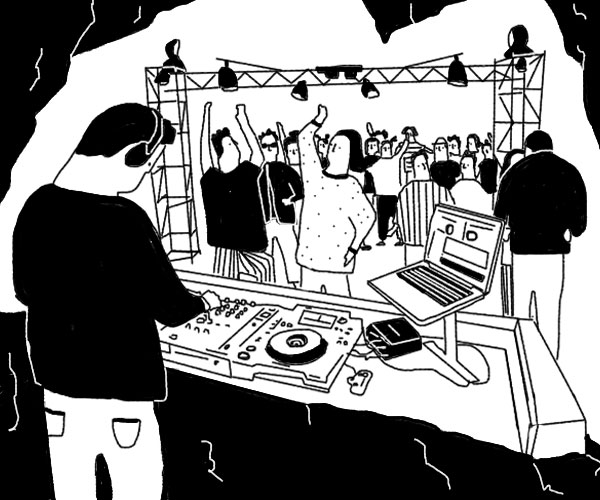
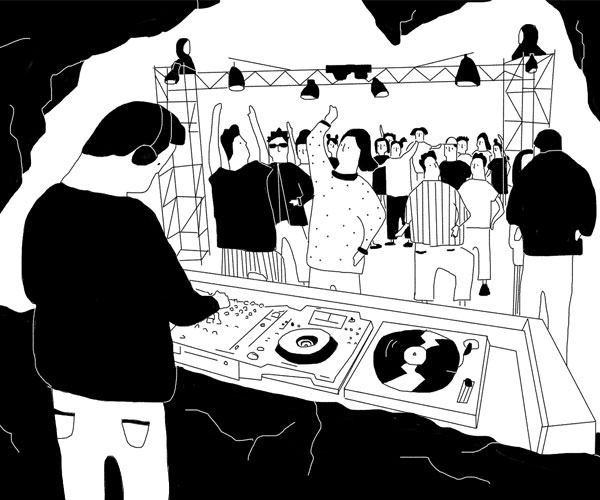
Minor Changes

diff --git a/css/main.css b/css/main.css
@@ -32,6 +32,20 @@ body {
       color: #0E0F0F;
 }
 
+img {
+  transition: transform 500ms;
+}
+
+img:hover,
+img:focus {
+
+  transform: scale(1.1);
+    z-index: 1;
+
+}
+
+
+
   /* Fonts Sizes */
 
 @media screen and (min-width: 310px) {
@@ -59,6 +73,7 @@ body {
     font-size: calc(14px + 6 * ((100vw - 310px) / 680));
   }
 }
+
 
   /* Navigation Start */
 
@@ -124,7 +139,6 @@ body {
 p span {
     display: block;
   }
-
 
 .main-nav {
     list-style-type: none;
@@ -200,7 +214,7 @@ p span {
       max-width: 100%;
       min-height: 20vh;
       margin: auto;
-      background-color: #FDFDFD;
+      background-color: #FFFFFF;
       padding-top: 10vh;
       padding-bottom: 10vh;
       position: relative;
@@ -213,7 +227,7 @@ p span {
 }
 
 .button {
-  background-color: #FDFDFD;
+  background-color: #FFFFFF;
   transition: border-color 0.5s ease;
   border: 2px solid #0E0F0F;
   color: #0E0F0F;
@@ -231,9 +245,9 @@ p span {
    }
 
 .button-left {
-  background-color: #FDFDFD;
+  background-color: #FFFFFF;
   transition: border-color 0.5s ease;
-  outline: 5px solid #FDFDFD;
+  outline: 5px solid #FFFFFF;
   border: 2px solid #0E0F0F;
   color: #0E0F0F;
   font-size: 20px;
@@ -273,7 +287,7 @@ p span {
 }
 
 .tablinks {
-  background-color: #FDFDFD;
+  background-color: #FFFFFF;
   outline: 2px solid #0E0F0F;
   transition: outline-color 0.9s ease;
   outline-offset: -4px;
@@ -491,7 +505,10 @@ svg {
   display: none;
   }
 
-
+.lingoactive {
+  color: #E19900;
+  text-decoration: underline;
+}
 
 @media screen and (min-width: 768px) {
 
@@ -708,16 +725,27 @@ svg {
       padding-top: 17.5vh;
     }
 
+    .tabcontent {
+      min-height: 800px;
+    }
+
+    .svgdiv {
+      padding-bottom: 50px;
+    }
+
+    svg {
+      max-height: 65vh;
+    }
+
   }
 
   /* Animate Duration */
 
 :root {
   --animate-duration: 1500ms;
-  --animate-delay: 1.9s;
+  --animate-delay: 0.2s;
 }
 
 .animate__animated.animate__fadeIn {
   --animate-duration: 2s;
-  --animate-delay: 2s;
 }

diff --git a/index.html b/index.html
@@ -19,12 +19,12 @@
 <body>
 
 
-  <div class="vertical-menu">
+  <div class="vertical-menu animate__animated animate__fadeIn animate__delay-3s">
     <div class="top-lng">
     <i class="fas fa-globe-europe"></i>
-    <a href="#eng" class="" id="eng">ENG</a>
-    <a href="#it" class="" id="it">IT</a>
-    <a href="#de" class="" id="de">DE</a>
+    <a href="#eng" class="trans" id="eng">ENG</a>
+    <a href="#it" class="trans" id="it">IT</a>
+    <a href="#de" class="trans" id="de">DE</a>
     </div>
 
     <div class="logo-container">
@@ -45,7 +45,7 @@
               <i class="far fa-bars"></i>
             </span>
             <div class="nav-wrapper" id="js-menu">
-              <ul class="main-nav">
+              <ul class="main-nav animate__animated animate__fadeIn animate__delay-3s">
                   <li>
                       <a href="#about" class="nav-links" id="js-navbar-toggle1">Project</a>
                   </li>
@@ -70,7 +70,7 @@
 
     <div class="columns">
       <div class="colum title">
-        <div class="hero">
+        <div class="hero animate__animated animate__fadeIn animate__delay-2s">
           <h2 class="lng" key="intro_h2">7000 Squaremeters of Space</h2>
           <h1 class="lng" key="intro_h1">What would you do with it?</h1>
           <a href="#participate" class="button lng" key="intro_btn">Hook me up!</a>
@@ -106,7 +106,7 @@
           </div>
           <div class="column col-1"></div>
           <div id="about-waypoint2" class="column col-5 col-ml-auto col-lg-12 imgdiv animate__animated">
-            <img src="img/concept.jpg" alt="The Bunker Concepts" class="centered">
+            <img src="img/impact.jpg" alt="The Bunker Concepts" class="centered">
           </div>
         </div>
       </div>

diff --git a/js/main.js b/js/main.js
@@ -202,6 +202,9 @@ function fetchLingo () {
 //CALL LINGO FUNCTION
 
 fetchLingo();
+//LINGO TABS
+
+
 
 //Interactive Map
 
@@ -238,6 +241,7 @@ $(function(){
 
   });
 });
+
 
 
 // Waypoints
@@ -284,14 +288,14 @@ $(document).ready(function(){
       element: document.getElementById('team-waypoint1'),
       handler: function() {
         $('#team-waypoint1').addClass('animate__fadeInLeft');
-      },  offset: '50%'
+      },  offset: '65%'
     })
 
     var teamWaypoint = new Waypoint({
       element: document.getElementById('team-waypoint2'),
       handler: function() {
         $('#team-waypoint2').addClass('animate__fadeInRight');
-      },  offset: '50%'
+      },  offset: '65%'
     })
 });
 
